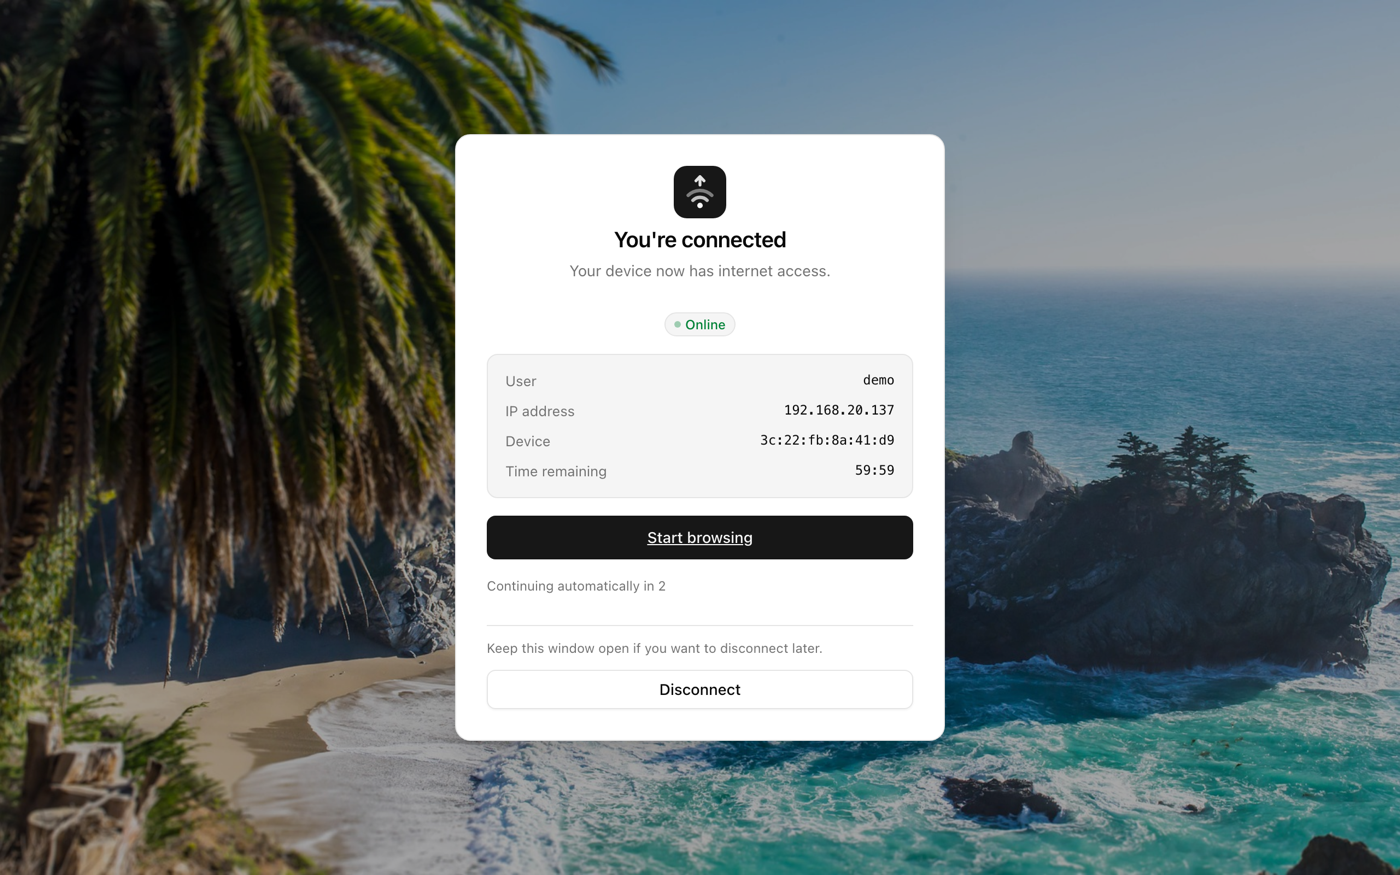
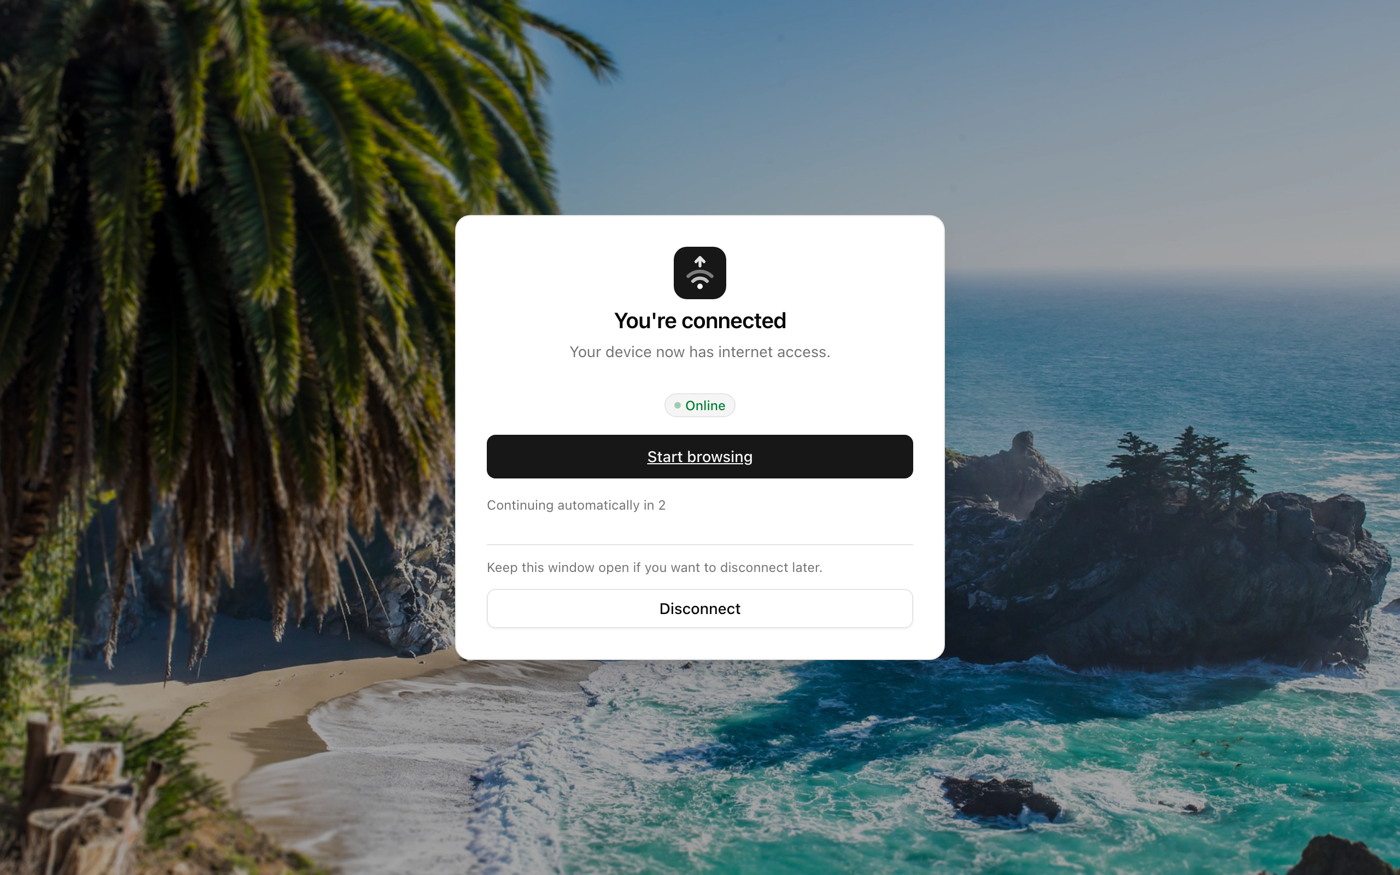
README: fresh connected screenshot, flag-emoji language list
- connected.png regenerated without the session-details block
- the 47 languages listed with flags; verified the list matches
  src/i18n.json exactly (47/47, plus the 5 legacy alias tags)

Changed region(s): [[0.3379, 0.432, 0.6757, 0.7097], [0.3071, 0.1543, 0.6757, 0.432], [0.3071, 0.7406, 0.6757, 0.864]]

diff --git a/README.md b/README.md
@@ -162,11 +162,18 @@ Everything lives in [config.json](config.json); rebuild after any change.
 | `security.warnOnInsecureTransport` | `true` | HTTP warning banner |
 | `footer.text` | `""` | Optional help line under the card |
 
-Languages: en, de, fr, es, it, pt, nl, pl, cs, sk, hu, ro, bg, hr, el, tr,
-ru, uk, sv, no, da, fi, ja, zh, ko, ar, he, hi, bn, ur, fa, id, ms, th, vi,
-fil, ta, sr, sl, lt, lv, et, is, ca, sq, sw, az. Legacy browser tags are
-mapped (iw→he, in→id, tl→fil, nb/nn→no). Add or adjust in
-[src/i18n.json](src/i18n.json) — missing keys fall back to the default
+All 47 languages:
+
+🇬🇧 en · 🇩🇪 de · 🇫🇷 fr · 🇪🇸 es · 🇮🇹 it · 🇵🇹 pt · 🇳🇱 nl · 🇵🇱 pl · 🇨🇿 cs ·
+🇸🇰 sk · 🇭🇺 hu · 🇷🇴 ro · 🇧🇬 bg · 🇭🇷 hr · 🇬🇷 el · 🇹🇷 tr · 🇷🇺 ru · 🇺🇦 uk ·
+🇸🇪 sv · 🇳🇴 no · 🇩🇰 da · 🇫🇮 fi · 🇯🇵 ja · 🇨🇳 zh · 🇰🇷 ko · 🇸🇦 ar · 🇮🇱 he ·
+🇮🇳 hi · 🇧🇩 bn · 🇵🇰 ur · 🇮🇷 fa · 🇮🇩 id · 🇲🇾 ms · 🇹🇭 th · 🇻🇳 vi · 🇵🇭 fil ·
+🇮🇳 ta · 🇷🇸 sr · 🇸🇮 sl · 🇱🇹 lt · 🇱🇻 lv · 🇪🇪 et · 🇮🇸 is · 🇦🇩 ca · 🇦🇱 sq ·
+🇰🇪 sw · 🇦🇿 az
+
+Arabic, Hebrew, Urdu and Persian render right-to-left. Legacy browser tags
+are mapped on top (iw→he, in→id, tl→fil, nb/nn→no). Add or adjust languages
+in [src/i18n.json](src/i18n.json) — missing keys fall back to the default
 language, so partial translations are fine.
 
 ## Security
